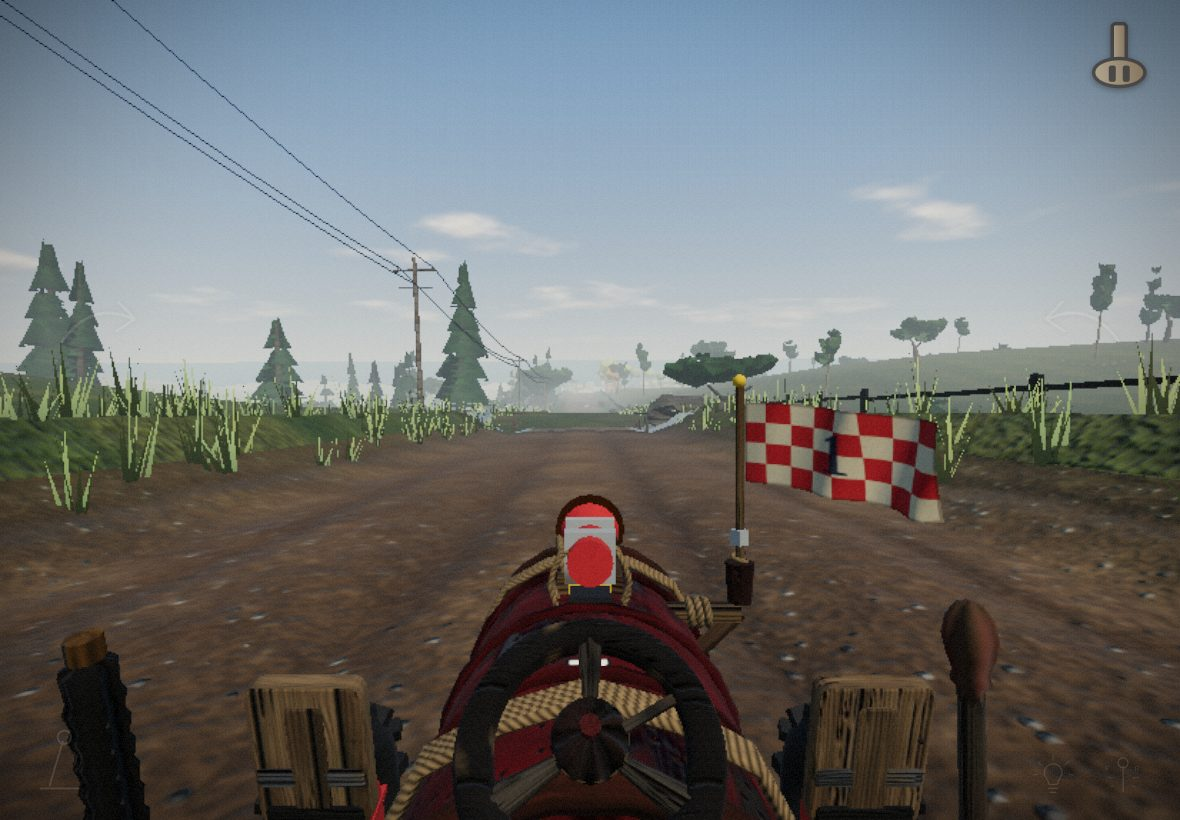
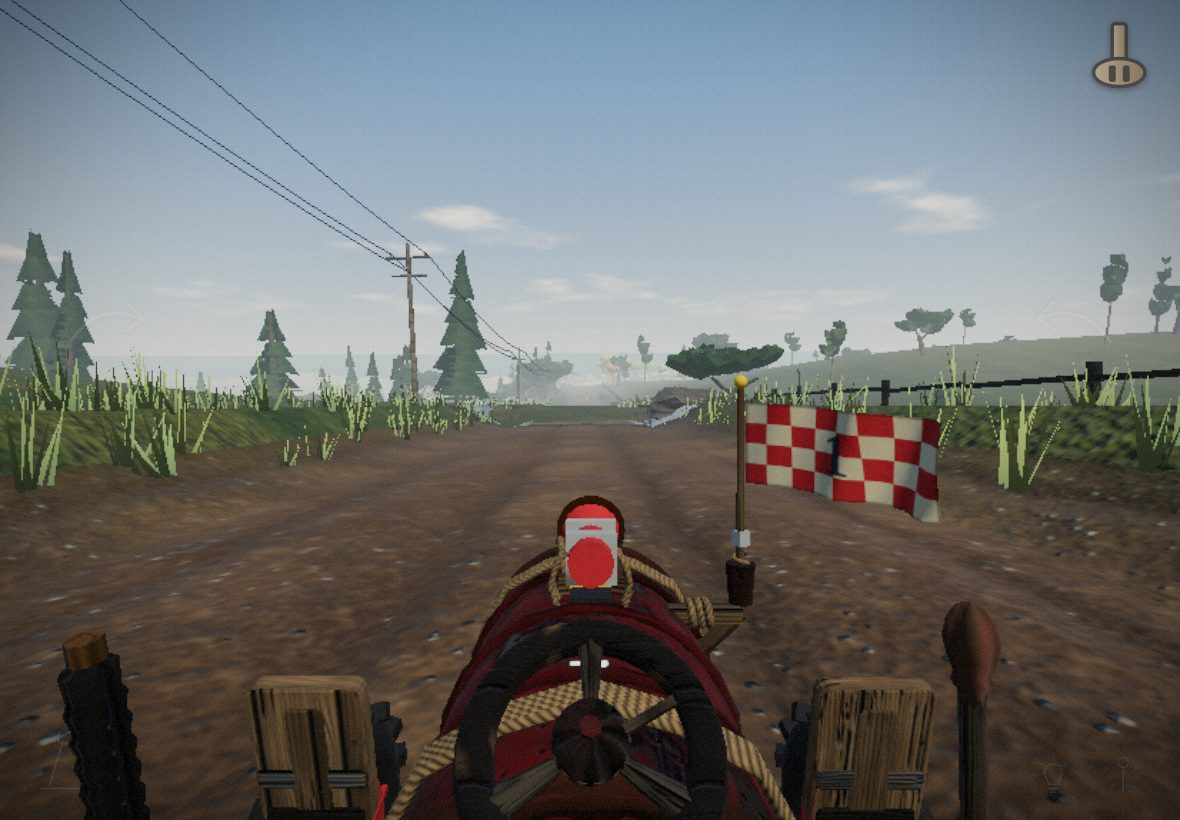
Critic round 4: score 13/20, report and screenshots
Claude-Session: https://claude.ai/code/session_01VQdijxiDxB1XrGopiSbUaQ

diff --git a/critique/round-4.md b/critique/round-4.md
@@ -1,0 +1,55 @@
+# CRITIQUE REPORT — ROUND 4
+**Benchmark Comparison:** The Last of Us Series (Visual Weathering, PBR Mud/Water, Tactile Physics)
+**Overall Build Score:** 13 / 20  (Round 3: 12 / 20 — +1: networking, AI ordering, controls and chase cam measurably fixed; held back by a regressed berm, unchanged start-zone geometry, an inconsistent lens-mud effect and leftover phantom water drops)
+
+## 1. Scene & Environment (2-Mile Country Dirt Road) [ Sonnet 5.5 Medium]
+- **Failure 1:** The berm regressed under sustained steering. Steered drift runs now go **15.92 m** (s=600, steer +0.35) and **19.58 m** (s=2200, steer +0.5) beyond the road edge, against R3's 3.16/3.23 m. Only s=1500 stays contained (2.38 m). The no-input case improved: the 30 s no-input run peaks at 1.37 m beyond the edge, and in the 90 s ai=5 race the no-input player was off-road 18 s (R3: 85 s). But it then sat *on the road* (lateral 0–3.4) from t=50 to t=90 at 0.1–1.3 m/s, 42 slow-seconds, s=572→602. It doesn't "keep rolling"; it parks on a flat or uphill section with no gradient to coast down. `mud-splatter-rendered-2.jpg` and `hazard-mud-after.jpg` show the truck climbing the right-hand bank with the horizon rolled about 15°.
+- **Failure 2:** The far-LOD change hasn't moved the start-zone budget. `renderer.info` at q=default, ai=5: **s=0: 221 calls / 360,191 tris** (R3: 223 / 366,871). s=600: 103 / 179,814; s=1500: 91 / 136,888 (R3 168,732, −19 %); s=3150: 74 / 152,628 (R3 189,500, −19 %). Switching AI trucks to far-LOD beyond 33 m only pays off mid-course. The start line, where all six cars and the bales, bunting and crowd sit within 33 m, is unchanged, and the R3 routing target (≤ 120 calls / 200k) was not met.
+- **Concrete Fix:** In `src/scene/ground.js`, make berm containment velocity-aware. Above 6 m/s lateral speed, increase the inner-face slope, and add a lateral restoring acceleration of 2 m/s² × (|lateral| − hw) in `surfaceAt`'s friction output, capped at hw + 4. Add a `sanity.mjs` case asserting max excursion < 5 m for steer ±0.5 at 10 m/s. For the stall on flat sections, audit `track.js` grade at s≈570–600 and enforce a minimum −1.5 % downhill grade along the whole centreline. In `src/scene/scenery.js`, instance the start-zone hay bales, crowd and bunting (one `InstancedMesh` each) and cut bale radial segments to 12.
+
+## 2. Network, Offline PWA & QR-WebRTC Star Topology [Opus 5.5 Medium]
+- **Failure 1:** Under loss, the client player falls far behind. In the real-game lossy run (`tests/net-race.mjs` "lossy link (15 % loss, 20–80 ms jitter on 'fast')"), after 11 s the host car was at s=138.6 and the *client's* car only at **28.3 m** (host simulation) / 28.6 m (client). The same test without loss had the client at 52.7 m. The host jitter buffer reports "lost 33, strokes recovered 5": paddle strokes are impulses, and losing one costs the player permanently. The client-predicted pop is also visible: p95 **19.34 cm per frame**, max 21.07 cm (loopback R3 reported 3.62 cm max). Upload is fixed: real-game client tx is **6,100 B in 10.01 s = 609 B/s** (R3: 7.5 KB/s), host 2,546 B/s per client at 14.2 B/car.
+- **Failure 2:** Offline is now proven on the real build. `net-offline.mjs` on the real dist reported 17 precache entries / 1,145 KiB, the manifest inlined into `dist/sw.js`, offline-ready fired only after `statechange → activated`, 17/17 cached, and offline reload plus deep link both boot with 0 failed requests. Loopback 5 %/15 % loss passes (202/179 snapshots, interp delay 126/133 ms). The remaining gap is the unit of loss above: inputs are sent at 30 Hz with 2-frame redundancy, so a lost *pair* of packets (about 2 % at 15 % loss, i.e. once a second) drops a paddle stroke entirely.
+- **Concrete Fix:** In `src/net/sync.js`, send paddle strokes as a *cumulative* counter (`uint8 strokeSeqL/R` + last impulse) inside every input packet, so the host replays any missed strokes from the counter delta. That makes stroke loss impossible while the link is up. Extend `tests/net-race.mjs` (Network-owned) to assert client s within 10 % of a no-loss baseline under 15 % loss. Clamp `predictor` correction to ≤ 5 cm per frame with exponential smoothing (τ = 120 ms).
+
+## 3. Core Gameplay, Controls & Flag Physics [Sonnet 5.5 Medium]
+- **Failure 1:** The paddle advantage is lopsided. With the R3 regression fixed, paddling is now deterministic and never goes backwards: four repeated 10 s paddle runs from v=2 gave Δs = 105.7 / 111.5 / 111.5 / 111.5 m with min Δs 0 (R3: −64.7 m). But paddling now covers **3.6×** the distance of coasting (111.5 m vs 30.7 m, 15.58 vs 3.93 m/s). In the in-game race, a no-input player still led every AI at t=20–40 (s=219/368/515 vs best AI 203/315/443) purely on gravity, then stalled. Either the downhill feels like a motor or the flats feel like a wall; neither reads as a heavy wooden cart.
+- **Failure 2:** The headlight tap is fixed: on→off→on over three taps (`[true,false,true]`, logs `held 4425 allowed 600` → `->true`, `held 2445 allowed 4641` → `->false`), and the controls-phase tap also toggled (`headlightAfterTap:true`). The touch handbrake is now brutal: holding the zone took 11.29 → **0.02 m/s in 1.5 s (≈7.5 m/s²)**, while the debug handbrake=1 path measures 3.07 m/s². Two different decel figures for the same lever mean the touch path stacks something extra, probably the touch drag mapping to >1 or the reverse gear engaging.
+- **Concrete Fix:** In `src/core/physics.js`, scale gravity-along-slope by a rolling-resistance term `rollingResist·m·g·(1 + 0.02·v)` so that free coasting peaks at about 10 m/s on the steepest grade. Reduce `paddleEfficiency` by 25 % so paddling roughly doubles coasting rather than nearly quadrupling it. In `src/core/input.js`, clamp `touchHB` to [0, 1] after the drag mapping and ignore gear-zone pointers that started in the handbrake zone. Add to `tests/core-r4.mjs` an assertion that touch and debug handbrake decel agree within 15 %.
+
+## 4. Audio & Diegetic Cockpit UI [Sonnet 5.5 Medium]
+- **Failure 1:** The results-card projection contradicts the race. At the player's finish (1:37.35) the card lists "Ace ~158 s, Maeve ~197 s, Buster ~200 s, Barnaby ~213 s, **Clementine ~352 s**". But at t=90 in the same race Clementine was at s=885, *ahead* of Barnaby at 842, and running 11.7 m/s. The ~352 s projection (139 s slower than Barnaby) is wrong by more than 2 minutes, which suggests it extrapolates from a momentary speed dip. The AI order on the card is otherwise correct now (R3 had Ace 3rd of the AIs).
+- **Failure 2:** The glyph idle-flash still fires *inside* the race: opacity 0.32 at t=0, 0 at 5 and 10 s, **0.26 at 15 s and 20 s**, then 0 through 60 s. That is within the "pre-first-stroke, < 20 s" rule, but a coasting player sees the arcs reappear over the road 15 s into the run. Audio sand/ambient was not re-measured this round (`tests/audio-metrics.mjs` was not part of the surviving batch), so R3's sand-brighter-than-gravel finding stands unverified as fixed.
+- **Concrete Fix:** In `src/ui/index.js`, compute the "still rolling" projection as `raceTime + (TRACK_LENGTH − s) / max(4, avgSpeedLast20s)`, using a 20 s moving average from the vehicle's s history, not instantaneous speed. Suppress `idleFlash` entirely once `raceTime > 8 s`. In `src/audio/bank.js`, re-run the sand low-pass (target centroid 1.2–1.8 kHz) and record the result in `tests/audio-metrics.mjs` output with an assertion.
+
+## 5. The 10 Homemade Soap Box Trucks [Sonnet 5.5 Medium]
+- **Failure 1:** The rear numbers are double-printed. In `trucks-contact-sheet.jpg`, truck 5's "13" and truck 6's "21" plates show two overlapping copies of the number, offset by a few pixels, which reads as z-fighting or a duplicated decal on the rear board. The flags carry a separate number ("4" on truck 8's flag while its plate is also 4; truck 3's flag reads "4" in `cockpit-midtrack-speed.jpg` while its barrel says "5"), so flag and plate numbers don't match on at least one truck.
+- **Failure 2:** The cockpit wood is fixed and the mud coat is real but weak. The paddles are now desaturated grey-brown weathered planks with rope lashing (`q-low.jpg`, `hazard-gravel.jpg`), where R3's were cartoon yellow. After driving through mud, the paddle bases pick up a darker gritty band (`mud-splatter-rendered.jpg`, `hazard-mud-after.jpg`), but the lever knobs and wheel rim stay clean. There is no wet sheen on the coat, so it reads as dust, not mud.
+- **Concrete Fix:** In `src/vehicles/models_a.js`/`models_b.js`, remove the duplicate rear-plate decal mesh on trucks 5 and 6 (or give the second one `polygonOffset` and the same text). Source both flag and plate text from `spec.raceNumber`. In `src/vehicles/kit.js`, make `mudCoat` also drive roughness down to 0.35 for the first 4 s after contact (wet) before drying to 0.95, and apply it to the knob and wheel-rim materials.
+
+## 6. Graphics, Lighting & PBR Shaders [Sonnet 5.5 Medium]
+- **Failure 1:** Lens mud swings between none and huge blobs. Driving through mud with renders every 1/30 s (`mud-splatter-rendered.jpg`, 90 frames) leaves **no visible lens mud at all**. The `scene=mud` run advanced in 0.25 s steps (`hazard-mud-after.jpg`) shows about 10 large translucent brown teardrops, one reaching y≈230 (upper third), each with an identical white specular dot. The spawn rate depends on how often `render()` sees the wet latch, not on the mud contact itself. Phantom water drops on dry road persist: `cockpit-midtrack-speed.jpg` (teleport to s=1500, dry dirt) shows 4–5 clear droplets on the wheel hub and lower cockpit.
+- **Failure 2:** Gravel and chase cam are fixed and the tiers improved. Gravel now reads as loose stones scattered over dirt (`hazard-gravel.jpg`), not R3's cobble paving. The chase cam follows: `chase-ai-race.jpg` frames the green "13" truck about 8 m ahead, where R3 left the camera at the start. FPS in SwiftShader: q-low **2.0**, chase **2.0** (R3: 1.8 / 1.0). q-medium and q-default were not re-measured in the surviving runs. The start-line 360k triangles (§1) remain the dominant cost.
+- **Concrete Fix:** In `src/graphics/postfx.js`, move mud-drop spawning from `render()` into a per-physics-step accumulator (`spawnBudget += dt · rate(speed)` while `surface==='mud'`). Flush it at the next render so the spawn count is frame-rate independent. Cap drop radius at 0.035 and randomise the specular position and size per drop. Clear water drops on `teleport()` and require `surface in {'water','rutpool','puddle'}` for ≥ 2 physics steps before spawning any.
+
+## 7. The 5 Tiered AI Agents [Sonnet 5.5 Medium]
+- **Failure 1:** Tiers 3 and 4 still swap. The in-game 90 s ai=5 race finished `Ace 1045 > Buster 944 > Maeve 909 > Clementine 885 > Barnaby 842`, with Buster (tier 3) 35 m ahead of Maeve (tier 4). `tests/ai-game.mjs` reports the same: `Ace 1040 > Buster 940 > Maeve 904 > Clementine 880 > Barnaby 838`. `ai-sim 3` passed all assertions, with averages Ace 260.0 < Maeve 295.9 < Buster 308.0 < Clementine 318.3 < Barnaby 342.5, but seed 3 has Buster at 303.7 s beating Maeve at 305.3 s, and its s@90 shows Maeve *last* (835). With signature trucks Maeve now drives the slower `rust-bucket`, which erases her skill edge.
+- **Failure 2:** Ace walks away and the pack doesn't race. There were only **2 AI lead changes** in 90 s (Barnaby → Buster → Ace by t≈60), and then Ace led by 101 m at t=90 at 13.6 m/s while the rest sat at 10.9–12.1 m/s. Stalls are almost gone (slow-seconds: Barnaby 4, Maeve 2, the others 0; off-road ≤ 2 s each), a clear gain over R3. But a 101 m gap after 90 s means the second half of a 4–5 min race has no visible contest.
+- **Concrete Fix:** In `src/ai/profiles.js`, set Maeve `speed.cap` +1.5 and `paddle.strength` ×1.08 to offset `rust-bucket`'s `dragCoef`, and gate the assertion in `tests/ai-game.mjs` on Maeve ahead of Buster at t=90. In `src/ai/driver.js`, have the existing soft rubber band also cap the leader: when more than 60 m ahead, multiply the leader's paddle cadence by 0.85 (`draft.leaderEase`). Target ≥ 4 lead changes in 90 s in `ai-game.mjs`.
+
+## NEXT-STEPS ROUTING CHECKLIST
+- [ ] **@Scene-Agent (GPT-6 Sol [light]):** Add velocity-aware berm containment (< 5 m at steer 0.5 / 10 m/s) and enforce a minimum −1.5 % grade (no stalls at s≈570–600). Instance the start-zone dressing to ≤ 120 calls / 200k tris.
+- [ ] **@Network-Agent (GPT-6 Astra [light]):** Use cumulative stroke counters in input packets so paddle strokes survive loss (client within 10 % of no-loss baseline at 15 %), and clamp the predictor pop to ≤ 5 cm/frame.
+- [ ] **@Coding-Agent (GPT-6 Sol [light]):** Add rolling resistance so coasting peaks at about 10 m/s and paddling roughly doubles coasting. Make touch and debug handbrake decel agree within 15 %.
+- [ ] **@AudioUI-Agent (GPT-6 Sol [light]):** Base the still-rolling projection on a 20 s average speed, suppress the idle flash after 8 s, and re-measure and assert the sand centroid.
+- [ ] **@Trucks-Agent (GPT-6 Sol [light]):** Remove the double rear-plate decals (trucks 5/6), source flag and plate from `raceNumber`, and add a wet-then-dry mudCoat on knobs and wheel rim.
+- [ ] **@Graphics-Agent (GPT-6 Sol [light]):** Spawn mud drops per physics step (frame-rate independent) with capped size, and allow no water drops without ≥ 2 steps of water contact; clear drops on teleport.
+- [ ] **@AI-Agent (GPT-6 Sol [light]):** Compensate Maeve for rust-bucket so she beats Buster at t=90, ease the leader beyond 60 m, and target ≥ 4 lead changes.
+
+## Appendix — Evidence
+- Harnesses: `tests/critic-r4.mjs` (re-run after the container restart as separate PHASES: shots[chase-ai-race,lobby-host,q-low], ai, trucks; the earlier batch completed glyph/extra/controls/most shots), `tests/critic-r4-net.mjs`. Surviving batch logs: `critique/screens/round-4/evidence/r4*.txt`. Raw JSON: `critique/screens/round-4/results-*.json`.
+- Score movement +1 vs R3. **Fixed:** client upload 7.5 KB/s → 609 B/s, real-dist offline proof, loss shim on the real net-race, the player never moves backwards (4/4 runs), headlight on→off→on, chase cam follows, gravel reads as loose stones, weathered paddles, in-game Ace now 1st with Clementine ahead of Barnaby, stalls nearly gone. **Regressed or open:** berm excursions 16–20 m under steer, start zone still 360k tris, the client loses strokes under loss (28 m vs 139 m), the inconsistent lens-mud effect, dry-road water drops, Buster > Maeve, the results projection, double-printed plates.
+- REALGAME: `{"hostBps":2546,"snapHz":30,"bytesPerCar6":14.2,"clientSentBytes":6100}` (10.01 s)
+- rendererInfo q=default ai=5: s0 221/360191, s600 103/179814, s1500 91/136888, s3150 74/152628
+- In-game 90 s: s=[You 602, Barnaby 842, Clementine 885, Buster 944, Maeve 909, Ace 1045]; offroadSec=[18,2,2,1,0,0]; slowSec=[42,4,0,0,2,0]; aiLeadChanges=2
+- FPS: q-low 2.0, chase-ai 2.0. Console errors: none.
